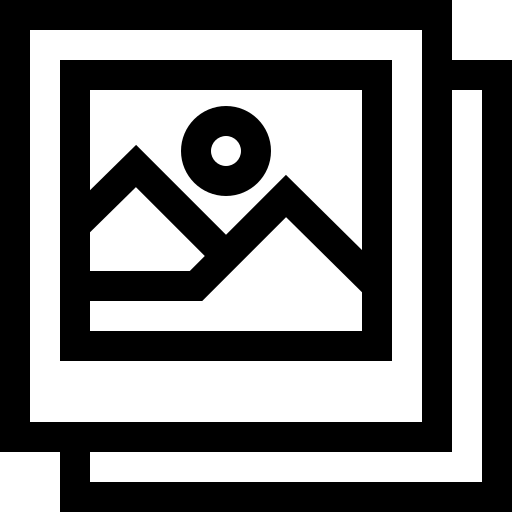
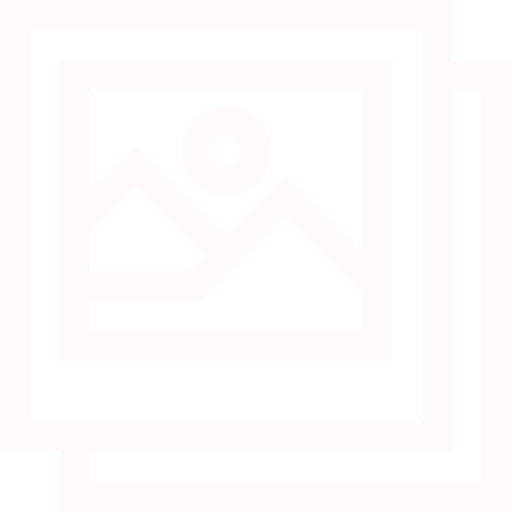
trabalhando no input file

diff --git a/bibliodaurea/src/components/FileBook.js b/bibliodaurea/src/components/FileBook.js
@@ -1,35 +1,55 @@
 import styles from '../pages/css/register.module.css';
-import photo from '../img/photo.png'
+import Event from '../components/EventClick';
 
-function FileBook(){
-    return(
 
+import React, { useRef } from 'react';
+
+function MeuComponente() {
+  const fileInputRef = useRef(null);
+
+  const handleCustomButtonClick = () => {
+    // Aciona o clique no input de arquivo quando o botão personalizado é clicado
+    if (fileInputRef.current) {
+      fileInputRef.current.click();
+    }
+  };
+
+  const handleFileChange = (e) => {
+    const selectedFile = e.target.files[0];
+    const fileButton = document.getElementById('fileButton');
+
+    if (selectedFile) {
+      var fileReader = new FileReader();
+      fileReader.onload = function (e) {
+        document.getElementById("photo").src = e.target.result;
+        let linkCapa = e.target.result;
+        console.log(linkCapa);
+        document.getElementById("linkImg").value = linkCapa;
+        // Oculta o input de arquivo após o carregamento da imagem
+        fileInputRef.current.style.display = 'none';
+      };
+      fileReader.readAsDataURL(selectedFile);
+
+      // Atualiza a visibilidade da imagem
+      document.getElementById("photo").style.opacity = '1';
+
+      console.log('Arquivo selecionado:', selectedFile.name);
+    }
+  };
+
+  return (
     <div className={styles.container}>
+      <div className={styles.max}>
+        <button className={styles.imageContainer} id="fileButton" onClick={handleCustomButtonClick}>
+            <img src="" id="photo" alt='Selecione uma imagem' className={styles.PhotoBook} />
 
-    <div className={styles.max}>
-        <div className={styles.imageContainer}>
-        <img src={photo} alt='Selecine uma imagem' className={styles.PhotoBook}></img>
+            <input id="linkImg" value="" hidden />
+
+            <input type="file" ref={fileInputRef} style={{ display: 'none' }} onChange={handleFileChange}/>
+        </button>
+      </div>
     </div>
-
-    </div>
-     <input type="file" id='fileimage' name='fileimg' accept='image/*'/>
-
-     </div>
-
-    
-     
-        
-    )
+  );
 }
 
-let photo = document.getElementById('PhotoBook');
-let file = document.getElementById('fileimage');
-
-photo.addEventListener('click', () =>{
-    file.click();
-})
-
-
-
-export default FileBook
-
+export default MeuComponente;

diff --git a/bibliodaurea/src/pages/css/register.module.css b/bibliodaurea/src/pages/css/register.module.css
@@ -6,17 +6,16 @@
     margin-left: 30px;
     border-radius:10px;
     background-color: white;
-    box-shadow: rgba(0, 0, 0, 0.24) 0px 3px 8px;
+    box-shadow: 1px 7px 7px 0px rgba(0, 0, 0, 0.30);
 }
 
-/*
-@media screen and (min-width: 1400px) {
-	.FormBooks {
-        display: flex;
-        height: 700px;
-        margin-top: 100px;
+
+@media screen and (min-width: 1024px) {
+	.FormBooks{
+        
+    }
 		
-	}
+	
 }
 
 @media screen and (min-width: 1366px) {
@@ -49,7 +48,7 @@
         margin-top: 100px;
         height: 550px;
 		}
-}*/
+}
 
 
 
@@ -94,34 +93,44 @@
 
 
 
-input[type='file']{
+/* input[type='file']{
     display:none
-}
+} */
 
 .max{
     max-width: 450px;
     width: 100%;
 }
 
-    
+.imageContainer:hover{
+    background-color: #d2d3d5 ;
 
-.PhotoBook{
-    display: flex;
-    max-width: 300px;
-    width: 300px;
-    height: 500px;
-    background-color: #eee;
-    border: 5px solid #ccc ;
-    cursor: pointer;
-    margin-left: 20em;
-    margin-top:100px;
-    
-  
 }
 
-.PhotoBook:hover{
-    background-color: #9898a4 ;
+.imageContainer{
+    display: flex;
+    width: 335px;
+    height: 500px;
+    background-color: none;
+    border: none;
+    margin-left: 20em;
+    margin-top:100px;
+    box-shadow: rgba(50, 50, 93, 0.25) 0px 6px 12px -2px, rgba(0, 0, 0, 0.3) 0px 3px 7px -3px;
+    border-radius: 20px;
+    cursor: pointer;
 
+    background-image: url('../../img/photo.png');
+    background-repeat: no-repeat;
+    background-position: center;
+    background-size: 30%;
+
+    overflow: hidden;
+}
+
+.PhotoBook {
+    opacity: 0;
+    height: 100%;
+    margin-left: -5px;
 }
 
 

diff --git a/bibliodaurea/src/components/FormBook.js b/bibliodaurea/src/components/FormBook.js
@@ -2,10 +2,13 @@ import styles from '../pages/css/register.module.css';
 
 function FormBook(){
     return (
+      <div className={styles.container}>
         <form>
+      
         <label>
+           
         
-          <input className={styles.inputForm} type="text" name="name" placeholder='Título:'/><br></br>
+      <input className={styles.inputForm} type="text" name="name" placeholder='Título:'/><br></br>
         </label>
         <br></br>
         <label>
@@ -34,6 +37,7 @@ function FormBook(){
         <button className={styles.buttonregister}>Cadastrar</button>
         
       </form>
+      </div>
       
         )
 }

diff --git a/bibliodaurea/src/components/EventClick.js b/bibliodaurea/src/components/EventClick.js
@@ -1,0 +1,3 @@
+
+
+
